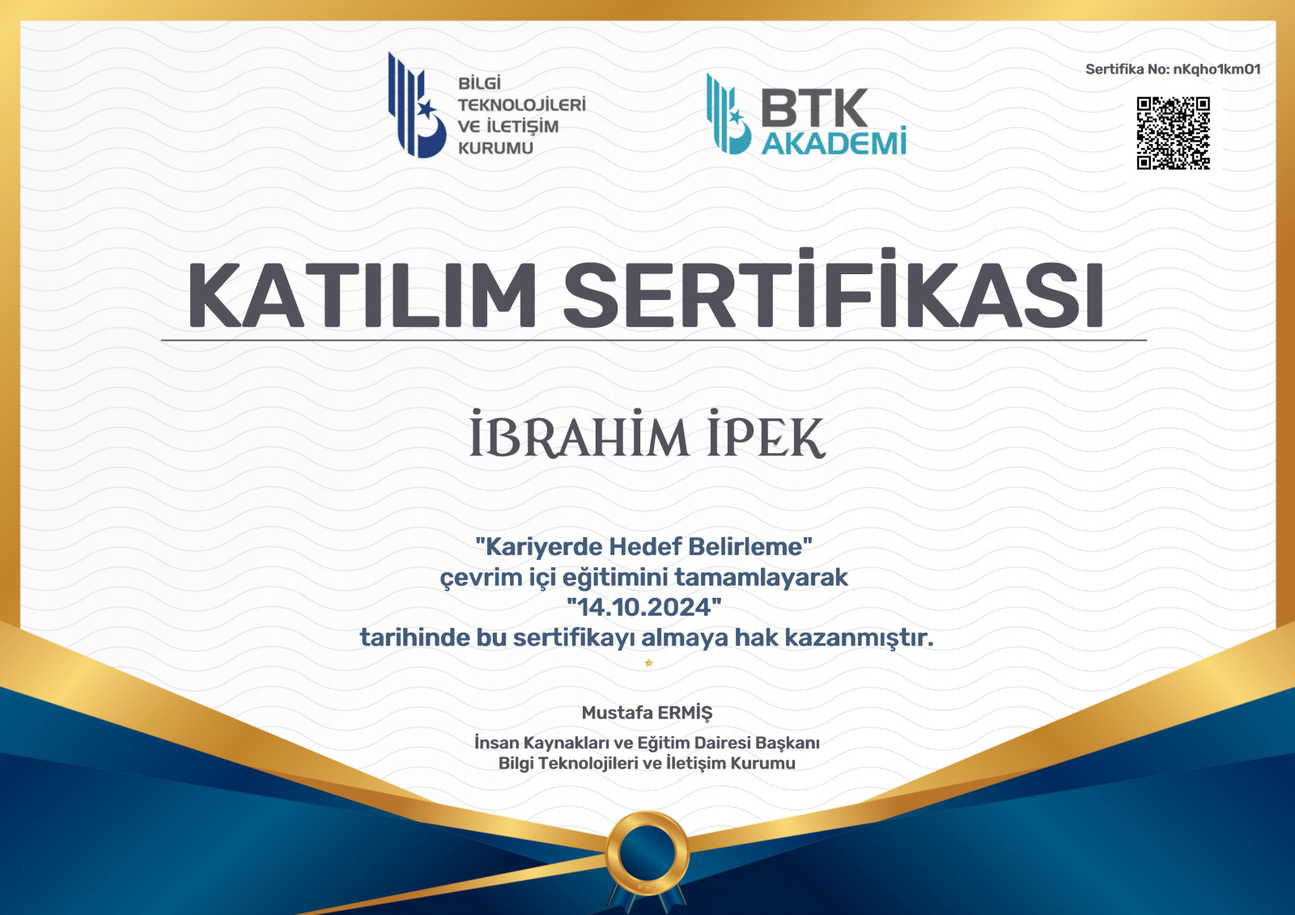
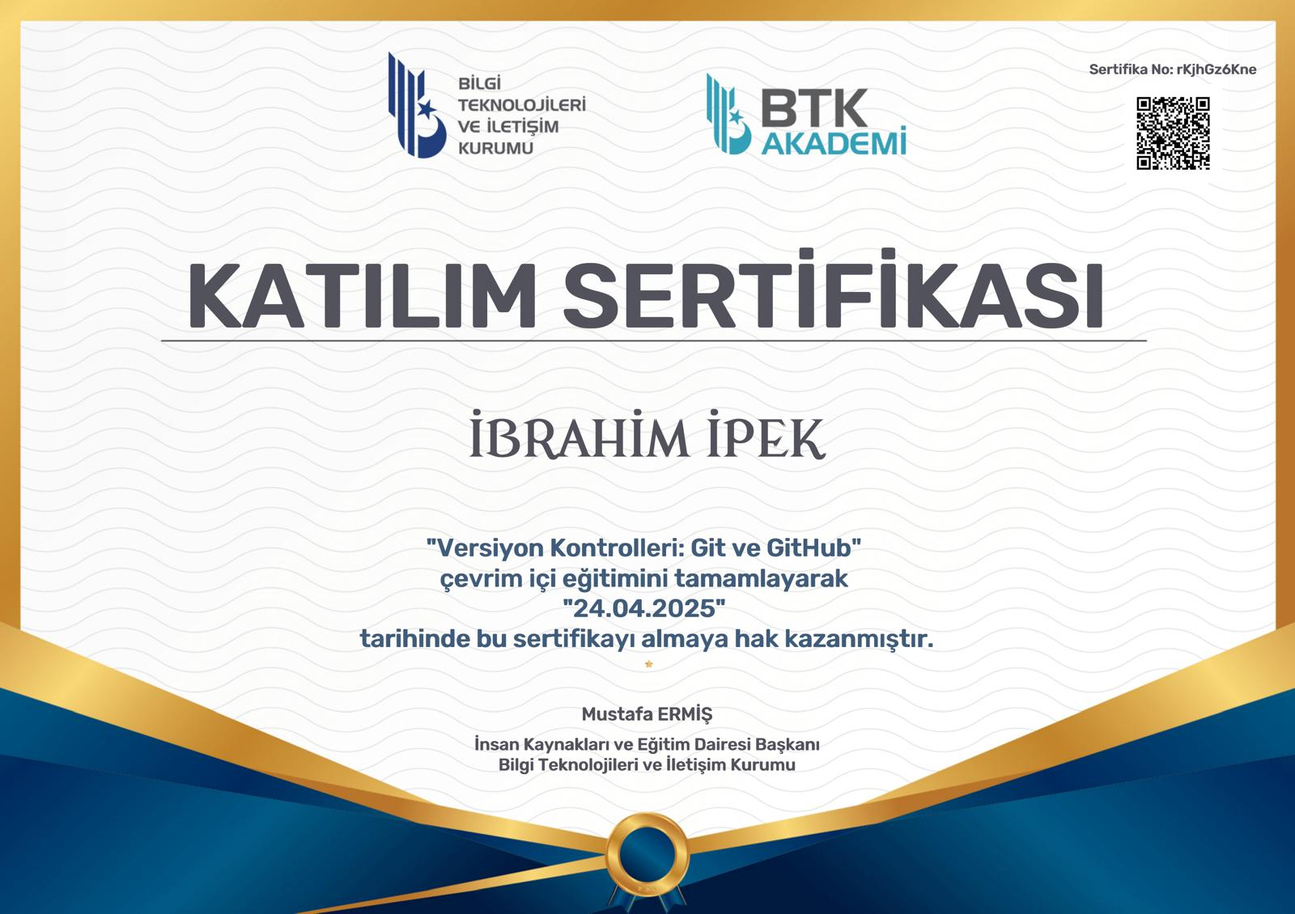
feat: Added description for photos on gallery page
-Changed some resources with fixed-size resources.
-Some theme changes.
-Some CSS changes for paragraph tag.
-Changed some topic and some paragraphs from lorem to my paragraphs.

diff --git a/cv.html b/cv.html
@@ -4,6 +4,9 @@
     <meta charset="UTF-8">
     <meta http-equiv="X-UA-Compatible" content="IE=edge">
     <meta name="viewport" content="width=device-width, initial-scale=1.0">
+    <meta name="descripton" content="Explore the photo gallery and creative works of Ibrahim Ipek. Discover projects, certificates, abilities, and more on his personal portfolio site.">
+    <meta name="keywords" content="Ibrahim Ipek, photo gallery, portfolio, personal site, certificates, abilities, web developer">
+    <meta name="author" content="Ibrahim Ipek">
     <title>Ibrahim Ipek | CV Page</title>
     <link href="https://cdn.jsdelivr.net/npm/bootstrap@5.3.3/dist/css/bootstrap.min.css" rel="stylesheet">
     <link rel="stylesheet" href="./css/main.css">
@@ -17,7 +20,7 @@
                   <div class="row align-items-center">
                     <div class="col-8 d-flex align-items-center gap-2">
                       <i class="bi bi-arrow-return-right"></i>
-                      <h1 class="d-none d-lg-block m-0">Welcome to aaaaaaaaaaa.com</h1>
+                      <h1 class="d-none d-lg-block m-0">Welcome to ibrahimipek.com</h1>
                       <h2 class="d-block d-lg-none m-0">Welcome</h2>
                     </div>
                     <div class="col-4">
@@ -70,21 +73,53 @@
                         <img src="./resources/photo.jpg" class="img-fluid" alt="">
                     </div>
                     <div class="col-md-10 pt-2 align-text-bottom">
-                        <h2>Lorem, ipsum dolor.</h2>
-                        <p>Lorem ipsum dolor sit, amet consectetur adipisicing elit. 
-                            Minima animi iste quod ex, reiciendis debitis. Illo omnis 
-                            dicta natus maiores autem deleniti aut earum itaque, placeat 
-                            officia, reiciendis doloremque? Numquam hic ducimus magnam 
-                            dignissimos laborum! Magni perspiciatis suscipit, harum nobis 
-                            aspernatur hic non accusamus consequuntur accusantium dolores aperiam? 
-                           </p>
+                        <h2>Ibrahim Ipek</h2>
+                        <p>Student of Zonguldak Ecevit University - Computer Engineering - 2.the grade</p>
+                        <p>Mail: ibrahim58ipek@gmail.com</p>
+                        <p>Social Media: <a href="https://www.github.com/58Adige" class="text-white">Github</a> <a href="https://www.linkedin.com/in/ibrahim-ipek-b44bb32b8/" class="text-white">LinkedIn</a>
+                        <a href="https://www.instagram.com/usr1" class="text-white">Instagram</a> <a href="https://www.youtube.com/@ibrahimipek58" class="text-white">Youtube</a></p>
+                        <p>C, C++, C#, Java / HTML5, CSS / Git</p>  
                     </div>
                 </div>
                 <div class="row justify-content center">
-                    <div class="col pt-2">
-                        <p>
-                            Lorem ipsum dolor sit amet consectetur adipisicing elit. Non qui dicta alias consequatur. Iure ipsam reprehenderit amet vero aliquam rerum alias porro laboriosam! Provident ut facilis sunt id omnis porro? Officiis explicabo cupiditate expedita odio. Dolores alias quis incidunt ipsa minus quo deleniti rem ratione necessitatibus autem quas natus, suscipit laudantium expedita error sit at tenetur nulla corrupti ut molestias dignissimos debitis animi provident. Praesentium consectetur eos consequuntur aliquam, velit minima molestias facilis quos minus numquam officia fugiat quam, possimus voluptate ab dignissimos ullam magnam cupiditate repellat saepe, odio corporis? Eveniet quos optio provident perferendis, at, quam aliquid quia assumenda, distinctio quaerat ad recusandae a impedit itaque aliquam necessitatibus. Quia ut unde dolorem vitae possimus sequi, ipsum, accusamus provident corrupti porro eaque iste, error modi consectetur sit! Sapiente repudiandae porro voluptatum exercitationem atque aspernatur officiis commodi ipsa explicabo facilis qui, maiores, necessitatibus expedita adipisci deserunt, iure doloremque quos similique obcaecati! Aliquam recusandae, aspernatur illum pariatur a reiciendis doloremque cumque sequi quisquam velit nobis laborum quod libero earum ad alias eum cum sint commodi numquam at magnam eius voluptatem. Nihil repudiandae aliquid iste distinctio atque quasi adipisci veniam ad vel nulla vero, eos numquam repellat animi possimus quibusdam! Tempore totam saepe magni eveniet libero officiis dolorem fugiat expedita? Itaque beatae suscipit error ipsa, odio placeat a deserunt atque! Obcaecati modi placeat cum officia. Dolor assumenda in debitis, a, sunt sit exercitationem, ut possimus voluptatibus commodi officiis inventore dolorum sed eos eius laudantium ipsum asperiores! Laudantium magnam placeat nihil ducimus perferendis assumenda ipsam architecto, repellendus numquam unde quos doloremque officiis sunt incidunt molestias porro id iste sequi optio eligendi officia aliquam. Quis voluptates animi perferendis deserunt eum saepe odio non perspiciatis aut commodi, quaerat minus aliquam repudiandae delectus veritatis! Consequuntur, doloribus amet! Tempore consequatur repudiandae dicta eveniet in officiis suscipit laudantium, animi nostrum ad minima aliquid deserunt molestiae distinctio sunt ducimus alias eius accusamus error labore cumque consectetur iusto. Facere eveniet necessitatibus minus ipsa id pariatur corporis sequi ut vero voluptatem quae, doloribus ad aliquid, dicta unde adipisci nisi voluptatibus exercitationem, ipsam vitae cumque? Eligendi labore earum laborum soluta dolor temporibus doloremque ex, non nemo ipsa assumenda asperiores iure culpa omnis quod nostrum fuga, autem nulla? Blanditiis possimus, animi recusandae exercitationem quia provident nesciunt beatae inventore tenetur adipisci laborum fugiat? Maiores placeat ex nostrum? Repudiandae ut architecto qui reiciendis deserunt veritatis quaerat magnam labore a quas cumque beatae, hic iste neque aliquid atque autem cupiditate repellat dolor quidem in asperiores debitis. Cum recusandae, porro molestiae quos sequi exercitationem nulla cupiditate minima, maxime nam voluptatibus rerum excepturi aut corrupti laboriosam fuga voluptatem molestias in? Molestiae incidunt necessitatibus natus unde distinctio beatae quas impedit obcaecati accusantium modi laboriosam voluptatum nam voluptate reiciendis, totam ipsam excepturi reprehenderit at fuga iusto, a esse quisquam molestias earum! Aperiam, dolorum mollitia molestias neque porro iusto harum incidunt similique sit iste ipsam minima, illum, libero error non recusandae doloremque facilis. Neque perspiciatis, ab sequi aspernatur laborum repellat ducimus suscipit delectus, voluptatibus labore ipsam nostrum similique molestiae vero accusantium. Doloremque!
-                        </p>
+                    <div class="col pt-2 text-center">
+                        <p>Work Experience
+                          <br>Company Name (start-date to end-date)
+                          <br>Your job title
+                          <br>Any experience, including roles and responsibilities and results achived in bullet point format.
+                          <br>Company Name (start-date to end-date)
+                          <br>Your job title
+                          <br>Any experience relevent to software development
+                          <br>Skills
+                          <br>Your previous experience is really important. You will need to make it really clear to someone who has not worked in your field before exactly how your experience will be useful in software development.
+                          <br>Consider skills relevent to software development. Then consider projects you've worked on before Makers that you feel proud of and/or you think are relevent to technology. Good examples clearly explain the impact you've had.
+                          <br>Here's an example
+                          <br>Communication
+                          <br>I honed my communication skills while completing my thesis at university, which involved writing and defending a dissertation to a board of professors and Ph.D. candidates. I further developed these skills when I was working in a digital marketing agency where I presented quarterly business reviews to C-level stakeholders. In doing so, I synthesised complex technical information into a digestible but comprehensive story for the different levels of knowledge in the room. My communication skills have also often come in handy while training to be a developer. For example, I recently ran a session for my mentees, who have only been coding for a few weeks, on how to use mocks to improve unit test isolation. I received feedback that the session was well run and helped them understand this potentially confusing topic.
+                          <br>Another skill
+                          <br>I achieved A during my work at B (job, or otherwise)
+                          <br>I contributed to the growth of X while doing Y (job, or otherwise)
+                          <br>I built this, made this, broke this, fixed this, etc.
+                          <br>A link to some on-line evidence (blogs, videos, articles, etc.)
+                          <br>Another skill
+                          <br>Education
+                          <br>Makers Academy (start_date to end_date)
+                          <br>Use short descriptions of what you did and a skill you used. (Similar to format from the 'Work Experience' section above)
+                          <br>e.g Frequently used paring in order to problemsolve effeciently, requiring teamwork and communication.
+                          <br>you might also mention aspects some other skills/knowledge listed below:
+                          <br>OOP, TDD, MVC, DDD
+                          <br>Agile/XP
+                          <br>Ruby, Rails, JavaScript
+                          <br>RSpec, Jasmine
+                          <br>Your University / College (start_date to end_date)
+                          <br>Subject, any specialisms
+                          <br>Grade
+                          <br>Other cool stuff
+                          <br>Any other qualifications
+                          <br>That in some arguable way make you a better software developer or well-rounded person
+                          
+                          <br>Hobbies
+                          <br>Any cool stuff that makes you a super part of a software development team</p>
                     </div>
                 </div>
             </div>
@@ -96,19 +131,19 @@
                 <div class="row text-center">
                     <div class="col-md-4">
                         <div class="col-md-6">
-                            <span>Ability:</span>
+                            <span>C Language:</span>
                             <div class="progress" role="progressbar">
                                 <div class="progress-bar bg-success progress-bar-animated progress-bar-striped" style="width: 95%"></div>
                            </div>
                         </div>
                         <div class="col-md-6">
-                            <span>Ability:</span>
+                            <span>C++ Language:</span>
                             <div class="progress" role="progressbar">
                                 <div class="progress-bar bg-danger progress-bar-animated progress-bar-striped" style="width: 25%"></div>
                            </div>
                         </div>
                         <div class="col-md-6">
-                            <span>Ability:</span>
+                            <span>C# Language:</span>
                             <div class="progress" role="progressbar">
                                 <div class="progress-bar bg-danger progress-bar-animated progress-bar-striped" style="width: 25%"></div>
                            </div>
@@ -169,52 +204,52 @@
                     <div id="carouselExampleAutoplaying" class="carousel slide" data-bs-ride="carousel">
                         <div class="carousel-inner border">
                           <div class="carousel-item active">
-                            <img src="./resources/cr16.jpg" class="d-block w-100" alt="...">
+                            <img src="./resources/cr16.jpg" class="d-block w-100" alt="BTK - Bootstrop 5 Katilim Sertifikasi">
                           </div>
                           <div class="carousel-item">
-                            <img src="./resources/cr15.jpg" class="d-block w-100" alt="...">
+                            <img src="./resources/cr15.jpg" class="d-block w-100" alt="BTK - HTML5 ile Web Gelistirme Katilim Sertifikasi">
                           </div>
                           <div class="carousel-item">
-                            <img src="./resources/cr14.jpg" class="d-block w-100" alt="...">
+                            <img src="./resources/cr14.jpg" class="d-block w-100" alt="BTK - Versiyon Kontrolleri: Git ve Github Katilim Sertifikasi">
                           </div>
                           <div class="carousel-item">
-                            <img src="./resources/cr13.jpg" class="d-block w-100" alt="...">
+                            <img src="./resources/cr13.jpg" class="d-block w-100" alt="BTK - C++ Programalaya Giris Katilim Sertifikasi">
                           </div>
                           <div class="carousel-item">
-                            <img src="./resources/cr12.jpg" class="d-block w-100" alt="...">
+                            <img src="./resources/cr12.jpg" class="d-block w-100" alt="BTK - C# Programlama Katilim Sertifikasi">
                           </div>
                           <div class="carousel-item">
-                            <img src="./resources/cr11.jpg" class="d-block w-100" alt="...">
+                            <img src="./resources/cr11.jpg" class="d-block w-100" alt="Gelecegi Yazanlar - Word Egitimi Katilim Sertifikasi">
                           </div>
                           <div class="carousel-item">
-                            <img src="./resources/cr10.jpg" class="d-block w-100" alt="...">
+                            <img src="./resources/cr10.jpg" class="d-block w-100" alt="BTK - A1 Seviye Ingilizce Katilim Sertifikasi">
                           </div>
                           <div class="carousel-item">
-                            <img src="./resources/cr9.jpg" class="d-block w-100" alt="...">
+                            <img src="./resources/cr9.jpg" class="d-block w-100" alt="BTK - Topluluk Onunde Konusma ve Etkili Sunum Teknikleri Katilim Sertifikasi">
                           </div>
                           <div class="carousel-item">
-                            <img src="./resources/cr8.jpg" class="d-block w-100" alt="...">
+                            <img src="./resources/cr8.jpg" class="d-block w-100" alt="BTK - Kariyerde Hedef Bulma Katilim Sertifikasi">
                           </div>
                           <div class="carousel-item">
-                            <img src="./resources/cr7.jpg" class="d-block w-100" alt="...">
+                            <img src="./resources/cr7.jpg" class="d-block w-100" alt="BTK - Ikna Becerileri Katilim Sertifikasi">
                           </div>
                           <div class="carousel-item">
-                            <img src="./resources/cr6.jpg" class="d-block w-100" alt="...">
+                            <img src="./resources/cr6.jpg" class="d-block w-100" alt="Gelecegi Yazanlar - Temel Bilgisayar Katilim Sertifikasi">
                           </div>
                           <div class="carousel-item">
-                            <img src="./resources/cr5.jpg" class="d-block w-100" alt="...">
+                            <img src="./resources/cr5.jpg" class="d-block w-100" alt="BTK - E-Ticarete Giris Katilim Sertifikasi">
                           </div>
                           <div class="carousel-item">
-                            <img src="./resources/cr4.jpg" class="d-block w-100" alt="...">
+                            <img src="./resources/cr4.jpg" class="d-block w-100" alt="BTK - Bilgi Teknolojilerine Giris Katilim Sertifikasi">
                           </div>
                           <div class="carousel-item">
-                            <img src="./resources/cr3.jpg" class="d-block w-100" alt="...">
+                            <img src="./resources/cr3.jpg" class="d-block w-100" alt="BTK - C Programlama Dili Katilim Sertifikasi">
                           </div>
                           <div class="carousel-item">
-                            <img src="./resources/cr2.jpg" class="d-block w-100" alt="...">
+                            <img src="./resources/cr2.jpg" class="d-block w-100" alt="Etkin Kampus - Canva Kariyer Zirvesi Katilim Sertifikasi">
                           </div>
                           <div class="carousel-item">
-                            <img src="./resources/cr1.jpg" class="d-block w-100" alt="...">
+                            <img src="./resources/cr1.jpg" class="d-block w-100" alt="Huawei - Arge Bulusmasi Katilim Sertifikasi">
                           </div>
                         </div>
                         <button class="carousel-control-prev" type="button" data-bs-target="#carouselExampleAutoplaying" data-bs-slide="prev">

diff --git a/home.html b/home.html
@@ -4,6 +4,9 @@
     <meta charset="UTF-8">
     <meta http-equiv="X-UA-Compatible" content="IE=edge">
     <meta name="viewport" content="width=device-width, initial-scale=1.0">
+    <meta name="descripton" content="Explore the photo gallery and creative works of Ibrahim Ipek. Discover projects, certificates, abilities, and more on his personal portfolio site.">
+    <meta name="keywords" content="Ibrahim Ipek, photo gallery, portfolio, personal site, certificates, abilities, web developer">
+    <meta name="author" content="Ibrahim Ipek">
     <title>Ibrahim Ipek | Home Page</title>
     <link href="https://cdn.jsdelivr.net/npm/bootstrap@5.3.3/dist/css/bootstrap.min.css" rel="stylesheet">
     <link rel="stylesheet" href="./css/main.css">
@@ -17,7 +20,7 @@
                   <div class="row align-items-center">
                     <div class="col-8 d-flex align-items-center gap-2">
                       <i class="bi bi-arrow-return-right"></i>
-                      <h1 class="d-none d-lg-block m-0">Welcome to aaaaaaaaaaa.com</h1>
+                      <h1 class="d-none d-lg-block m-0">Welcome to ibrahimipek.com</h1>
                       <h2 class="d-block d-lg-none m-0">Welcome</h2>
                     </div>
                     <div class="col-4">
@@ -66,42 +69,36 @@
         <div class="container-fluid bg-secondary">
             <div class="container bg-primary border p-2 ">
                 <div class="row">
-                    <div class="col-md-6 pt-2">
-                    <img src="./resources/photo.jpg" class="img-fluid" alt="">
+                    <div class="col-md-5 pt-2">
+                    <div class="row pt-5 m-2">
+                      <img src="./resources/photo.jpg" class="img-fluid border" alt="">
+                      <h2>AAA</h2>
+                    </div> 
+                    <div class="row pt-5 m-2">
+                      <img src="./resources/photo.jpg" class="img-fluid border" alt="">
+                      <h2>AAA</h2>
+                    </div> 
+                    <div class="row pt-5 m-2">
+                      <img src="./resources/photo.jpg" class="img-fluid border" alt="">
+                      <h2>AAA</h2>
+                    </div>  
                     </div>
-                    <div class="col-md-6 pt-2 align-text-bottom">
-                        <h2>Lorem, ipsum dolor.</h2>
-                        <p>Lorem ipsum dolor sit, amet consectetur adipisicing elit. 
-                        Minima animi iste quod ex, reiciendis debitis. Illo omnis 
-                        dicta natus maiores autem deleniti aut earum itaque, placeat 
-                        officia, reiciendis doloremque? Numquam hic ducimus magnam 
-                        dignissimos laborum! Magni perspiciatis suscipit, harum nobis 
-                        aspernatur hic non accusamus consequuntur accusantium dolores aperiam? 
-                        Id explicabo enim iste omnis saepe, recusandae praesentium provident optio 
-                        mollitia quae rem perspiciatis similique impedit adipisci consequatur qui 
-                        ea nesciunt, dolorem modi officia illo consectetur quam totam consequuntur. 
-                        Tenetur accusamus doloremque dolorem. Eligendi aliquid, soluta quaerat deleniti 
-                        ipsa at quasi, eaque ullam enim ex asperiores? Ut a, tempora blanditiis 
-                        repellendus eligendi quia magnam placeat cumque asperiores quas nam. Tempora, 
-                        explicabo reprehenderit? Modi optio dolore, totam labore sed explicabo, consequatur, 
-                        vel non tenetur voluptates fugit! Aliquid provident debitis est rem cumque sunt dicta 
-                        deserunt officia? Autem qui 
-                        laborum distinctio ut repellat debitis labore veniam!</p>
-                        <p>Lorem ipsum dolor sit amet consectetur adipisicing 
-                            elit. Aliquam amet rem consectetur nostrum vitae c
-                            umque magni beatae pariatur eos quos omnis cum sequi maxime, 
-                            eveniet quia iste cupiditate molestias hic possimus officiis, 
-                            voluptatem, voluptas quod? Nulla, accusamus voluptatibus. Ullam 
-                            atque et iste, minus ex autem hic velit fuga eveniet facere. Quos, 
-                            sunt! Maiores qui amet fugit nostrum dolores ipsum assumenda nulla 
-                            pariatur esse, dolor, quas mollitia accusamus modi reiciendis illo 
-                            sequi? Facilis itaque quaerat est hic, distinctio pariatur 
-                            perspiciatis rem vel ea libero optio beatae quis accusamus dicta 
-                            omnis saepe enim eligendi, accusantium cumque maiores nulla quisquam? 
-                            Dolores repudiandae necessitatibus cupiditate esse placeat sed error 
-                            aperiam accusamus facere, molestiae, exercitationem tempore, eius sapiente 
-                            at laborum ut quos! Dolorem odit repellat tenetur maiores ut ex facilis 
-                            officiis debitis ullam doloribus autem, nam,</p>
+                    <div class="col-md-7 pt-2 align-text-bottom">
+                        <h1>My Coding Adventure</h1>
+                        <p>Hello, my name is İbrahim İpek. I am a 2nd-year student in the Computer Engineering Department at Zonguldak Bülent Ecevit University.</p>
+                        <p>I met the concept of computers when I was 8 years old. Before that, in my free time, I used to solve puzzles, draw pictures, and create games on paper to play with my friends at school and in the neighborhood. As technology advanced every day, the computer became a necessity. At that time, there was no one in my family who used a computer actively, so I started to explore this digital world by myself. Even back then, I was able to learn how to use basic computer programs on my own.</p>
+                        <p>When I started middle school, I began learning how to make simple games using a block-based programming tool called Scratch. The idea of designing the games I always played on my own fascinated me. Later, I also learned to create 3D games using Kodu Game Lab, another block-based tool. This journey helped me improve my algorithmic thinking and problem-solving skills.</p>
+                        <p>When I entered high school, I joined the robotics and coding club. There, we started building robots and different automation systems using Arduino, which is very similar to the C programming language. As a team, we built a line-following robot and joined the KelebekRO competition. During the pandemic, my classmates and I tried to create a 2D sandbox game, which was our dream. We designed the textures for the characters and objects and started building the game using Unity. However, we had to stop this project because of a lack of technical knowledge and the need to prepare for the university entrance exam. Even today, we still talk about that project when we meet.</p>  
+                        <p>I chose computer engineering for my university education because it was my dream. In my first year, I took the Algorithm and Programming course and improved my programming skills in the C language. In my second year, I took Data Structures and Object-Oriented Programming courses, where I learned C++ and C#. Outside of classes, I took online courses in the library to improve myself. I also learned HTML5, CSS, and the Bootstrap framework on my own, which helped me take my first steps in web development.</p>
+                        <p>In the near future, I aim to learn technologies like ASP.NET and Entity Framework to build more dynamic web pages. I also plan to learn a database language like SQL to store data more efficiently. Later, I want to improve myself in mobile programming as well. I plan to learn a cross-platform mobile programming language (like Flutter). With the fast development of artificial intelligence, I, like many others, have understood the importance and value of data. For this reason, I want to focus on areas such as data science, data analysis, data management, and machine learning. I enjoy learning and discovering new things. I try to grow my career like a seed, and I hope one day it will bear fruit by doing work that benefits people and helps improve my country.</p>
+                        <hr>  
+                        <h1>Kodlama </h1>
+                        <p>Merhaba ben İbrahim İpek. Zonguldak Bülent Ecevit Üniversitesi'nde Bilgisayar Mühendisliği Bölümünde 2. Sınıf Öğrencisiyim.</p>
+                        <p>Bilgisayar kavramı hayatıma 8 yaşımda girdi. Bu kavram hayatımda yokken boş zamanlarımda bulmaca çözüyor, resim yapıyor ve kağıt üzerinde kendi tasarladığım oyunları mahallede ve okulda arkadaşlarımla oynuyordum. Teknolojinin her gün ilerlemesiyle bilgisayar artık bir ihtiyaç olmuştu. O zamanlar evimizde etkin şekilde bilgisayar kullanan bir birey yoktu. Bu yüzden bu sanal dünyayı kendi kendime kesfetmeye basladım. Daha o zamanlar kendime temel bilgisayar uygulamalarını kullanacak şekilde geliştirmeyi başardım.</p>
+                        <p>Ortaokula başladığım zaman, derslerde blok tabanlı kodlama programı olan Scratch ile basit oyunlar yapmayı öğrenmeye başladım. Sürekli oynadığım oyunları kendi başıma tasarlayabilme fikri beni büyüledi. Daha sonraları Kodu Game Lab ile yine blok tabanlı ama bu sefer 3 boyutlu oyunlar yapmayı öğrendim. Bu blok tabanlı kodlama serüveni beni algoritma kurma ve problem çözme açısından oldukça geliştirdi.</p>
+                        <p>Liseye geçtiğimde ise okulumuzun robotik kodlama kulübüne katıldım. Burada hemen hemen C diliyle aynı olan Arduino ile kendimize robotlar ve çeşitli otomasyonlar yapmaya başladık. Ekip olarak yaptığımız çizgi izleyen robot ile KelebekRO yarışmasına katıldık. Pandemi döneminde okulda sınıf arkadaşlarımla hayalimiz olan 2 boyutlu sandbox oyunu tasarlamaya çalıştık. Karakterlerin ve öğelerin doku olarak tasarımını yaptık, daha sonra Unity ile oyunu yapmaya başladık ama yeterli bilgi birikimine sahip olmamamız ve üniversite sınavına hazırlanma zorunluluğumuz yüzünden bu projeyi yarım bırakmak zorunda kaldık. Bugün bile bir araya geldiğimizde bu proje hakkında konuşuyoruz.</p> 
+                        <p>Üniversite tercihimi hep hayalim olan bilgisayar mühendisliği bölümleri ile yaptım ve Zonguldak Bülent Ecevit Üniversitesi Bilgisayar Mühendisliği Bölümü'ne yerleştim. Eğitimimin ilk senesinde Algoritma ve Programlama dersini aldım ve bu derste C diliyle programlama becerilerimi geliştirdim. İkinci sene veri yapıları ve nesneye yönelik programlama derslerini aldım. Bu derslerde C++ ve C# dillerini öğrendim. Dersler dışında boş zamanlarımda kütüphanede çevrim içi kurslara katılarak bilgilerimi pekiştirdim. Okuldan bağımsız olarak HTML5, CSS ve ayrıca Bootstrap kütüphanesini öğrendim ve web geliştirme konusunda ilk adımımı atmış bulunmaktayım.</p>
+                        <p>Yakın zamanda ASP.NET, Entity Framework gibi teknolojileri öğrenip daha dinamik sayfalar geliştirmek, SQL gibi bir veritabanı dili öğrenerek verileri daha verimli şekilde depolayabileceğim sayfalar geliştirmek ilk hedeflerim arasında. Daha sonra kendimi mobil programlama üzerinde de geliştirmek istiyorum. Platform bağımsız (Flutter olabilir) bir mobil programlama dili öğrenmek istiyorum. Son zamanlarda yapay zekanın hızla gelişmesiyle birlikte, herkes gibi verinin önemini ve değerini de daha iyi anlamış bulunmaktayım. Bu nedenle başta veri bilimi, veri analizi ve veri yönetimi, makine öğrenmesi olmak üzere veri üzerine kendimi geliştirmeyi planlıyorum. Yeni şeyler öğrenmeyi, yeni şeyler keşfetmeyi seviyorum. Elimden geldiğince kariyerimi bir tohum gibi yeşertmeye çalışıyorum. Umarım kariyerim insanlığa fayda sağlayacak işler yaparak ve ülkemi daha iyi yerlere getirerek meyvesini gösterir.</p>
                     </div>
                 </div>
             </div>
@@ -119,7 +116,7 @@
     <section id="contact">
         <div class="container-fluid bg-secondary text-white py-4">
             <div class="container bg-secondary">
-            <form class="py-3 text-start">
+            <form class="py-3 textSerüvenim-start">
                 <div class="row">   
                     <div class="col-md-6 pt-2">
                         <textarea name="message" id="message" cols="30" rows="10" placeholder="Enter Your Message" class="form-control"></textarea>
@@ -174,5 +171,4 @@
       </footer>
     <script src="https://cdn.jsdelivr.net/npm/bootstrap@5.3.3/dist/js/bootstrap.bundle.min.js"></script>
 </body>
-
 </html>

diff --git a/photogallery.html b/photogallery.html
@@ -4,6 +4,9 @@
     <meta charset="UTF-8">
     <meta http-equiv="X-UA-Compatible" content="IE=edge">
     <meta name="viewport" content="width=device-width, initial-scale=1.0">
+    <meta name="descripton" content="Explore the photo gallery and creative works of Ibrahim Ipek. Discover projects, certificates, abilities, and more on his personal portfolio site.">
+    <meta name="keywords" content="Ibrahim Ipek, photo gallery, portfolio, personal site, certificates, abilities, web developer">
+    <meta name="author" content="Ibrahim Ipek">
     <title>Ibrahim Ipek | Gallery Page</title>
     <link href="https://cdn.jsdelivr.net/npm/bootstrap@5.3.3/dist/css/bootstrap.min.css" rel="stylesheet">
     <link rel="stylesheet" href="./css/main.css">
@@ -17,7 +20,7 @@
               <div class="row align-items-center">
                 <div class="col-8 d-flex align-items-center gap-2">
                   <i class="bi bi-arrow-return-right"></i>
-                  <h1 class="d-none d-lg-block m-0">Welcome to aaaaaaaaaaa.com</h1>
+                  <h1 class="d-none d-lg-block m-0">Welcome to ibrahimipek.com</h1>
                   <h2 class="d-block d-lg-none m-0">Welcome</h2>
                 </div>
                 <div class="col-4">
@@ -69,28 +72,27 @@
                     <div class="col text-start">
                        <img id="mainImage" src="./resources/cr16.jpg" alt="Loading..." class="img-fluid mb-3 border">
                        <div class="container bg-primary py-2">
-                        <p>Lorem ipsu inventore accusamus recusandae est itaque repudiandae! Earum, tempore autem id esse temporibus minus laboriosam porro consectetur, officiis dolor sit quasi nobis! Labore magni quis nesciunt, voluptas assumenda fugit ipsa nulla neque repellendus doloremque aliquid iure. Possimus suscipit voluptatibus fuga veniam ullam iusto eius dignissimos culpa saepe, dolores maxime neque nulla exercitationem natus repellat cupiditate explicabo similique.</p>
+                        <p id="imageDescription">BTK - Bootstrop 5 Katilim Sertifikasi</p>
                         </div> 
                     </div>
                     <div class="container">
                      <div class="thumbnail-slider d-flex overflow-auto gap-2 p-2 border bg-secondary">
-                      <img src="./resources/cr1.jpg" class="img-thumbnail thumb" alt="...">
-                      <img src="./resources/cr2.jpg" class="img-thumbnail thumb" alt="...">
-                      <img src="./resources/cr3.jpg" class="img-thumbnail thumb" alt="...">
-                      <img src="./resources/cr4.jpg" class="img-thumbnail thumb" alt="...">
-                      <img src="./resources/cr5.jpg" class="img-thumbnail thumb" alt="...">
-                      <img src="./resources/cr6.jpg" class="img-thumbnail thumb" alt="...">
-                      <img src="./resources/cr7.jpg" class="img-thumbnail thumb" alt="...">
-                      <img src="./resources/cr8.jpg" class="img-thumbnail thumb" alt="...">
-                      <img src="./resources/cr9.jpg" class="img-thumbnail thumb" alt="...">
-                      <img src="./resources/cr10.jpg" class="img-thumbnail thumb" alt="...">
-                      <img src="./resources/cr11.jpg" class="img-thumbnail thumb" alt="...">
-                      <img src="./resources/cr12.jpg" class="img-thumbnail thumb" alt="...">
-                      <img src="./resources/cr13.jpg" class="img-thumbnail thumb" alt="...">
-                      <img src="./resources/cr14.jpg" class="img-thumbnail thumb" alt="...">
-                      <img src="./resources/cr15.jpg" class="img-thumbnail thumb" alt="...">
-                      <img src="./resources/cr16.jpg" class="img-thumbnail thumb" alt="...">
-                      <!-- İstediğin kadar devam ettirebilirsin -->
+                      <img src="./resources/cr1.jpg" class="img-thumbnail thumb" alt="Huawei - Arge Bulusmasi Katilim Sertifikasi" data-description="Huawei - Arge Bulusmasi Katilim Sertifikasi">
+                      <img src="./resources/cr2.jpg" class="img-thumbnail thumb" alt="Etkin Kampus - Canva Kariyer Zirvesi Katilim Sertifikasi" data-description="Etkin Kampus - Canva Kariyer Zirvesi Katilim Sertifikasi">
+                      <img src="./resources/cr3.jpg" class="img-thumbnail thumb" alt="BTK - C Programlama Dili Katilim Sertifikasi" data-description="BTK - C Programlama Dili Katilim Sertifikasi">
+                      <img src="./resources/cr4.jpg" class="img-thumbnail thumb" alt="BTK - Bilgi Teknolojilerine Giris Katilim Sertifikasi" data-description="BTK - Bilgi Teknolojilerine Giris Katilim Sertifikasi">
+                      <img src="./resources/cr5.jpg" class="img-thumbnail thumb" alt="BTK - E-Ticarete Giris Katilim Sertifikasi" data-description="BTK - E-Ticarete Giris Katilim Sertifikasi">
+                      <img src="./resources/cr6.jpg" class="img-thumbnail thumb" alt="Gelecegi Yazanlar - Temel Bilgisayar Katilim Sertifikasi" data-description="Gelecegi Yazanlar - Temel Bilgisayar Katilim Sertifikasi">
+                      <img src="./resources/cr7.jpg" class="img-thumbnail thumb" alt="BTK - Ikna Becerileri Katilim Sertifikasi" data-description="BTK - Ikna Becerileri Katilim Sertifikasi">
+                      <img src="./resources/cr8.jpg" class="img-thumbnail thumb" alt="BTK - Kariyerde Hedef Bulma Katilim Sertifikasi" data-description="BTK - Kariyerde Hedef Bulma Katilim Sertifikasi">
+                      <img src="./resources/cr9.jpg" class="img-thumbnail thumb" alt="BTK - Topluluk Onunde Konusma ve Etkili Sunum Teknikleri Katilim Sertifikasi" data-description="BTK - Topluluk Onunde Konusma ve Etkili Sunum Teknikleri Katilim Sertifikasi">
+                      <img src="./resources/cr10.jpg" class="img-thumbnail thumb" alt="BTK - A1 Seviye Ingilizce Katilim Sertifikasi" data-description="BTK - A1 Seviye Ingilizce Katilim Sertifikasi">
+                      <img src="./resources/cr11.jpg" class="img-thumbnail thumb" alt="Gelecegi Yazanlar - Word Egitimi Katilim Sertifikasi" data-description="Gelecegi Yazanlar - Word Egitimi Katilim Sertifikasi">
+                      <img src="./resources/cr12.jpg" class="img-thumbnail thumb" alt="BTK - C# Programlama Katilim Sertifikasi" data-description="BTK - C# Programlama Katilim Sertifikasi">
+                      <img src="./resources/cr13.jpg" class="img-thumbnail thumb" alt="BTK - C++ Programalaya Giris Katilim Sertifikasi" data-description="BTK - C++ Programalaya Giris Katilim Sertifikasi">
+                      <img src="./resources/cr14.jpg" class="img-thumbnail thumb" alt="BTK - Versiyon Kontrolleri: Git ve Github Katilim Sertifikasi" data-description="BTK - Versiyon Kontrolleri: Git ve Github Katilim Sertifikasi">
+                      <img src="./resources/cr15.jpg" class="img-thumbnail thumb" alt="BTK - HTML5 ile Web Gelistirme Katilim Sertifikasi" data-description="BTK - HTML5 ile Web Gelistirme Katilim Sertifikasi">
+                      <img src="./resources/cr16.jpg" class="img-thumbnail thumb" alt="BTK - Bootstrop 5 Katilim Sertifikasi" data-description="BTK - Bootstrop 5 Katilim Sertifikasi">
                     </div>
                   </div>
                 </div>
@@ -156,11 +158,13 @@
 <script src="https://cdn.jsdelivr.net/npm/bootstrap@5.3.3/dist/js/bootstrap.bundle.min.js"></script>
   <script>
     const thumbnails = document.querySelectorAll('.thumb');
-    const mainImage = document.getElementById('mainImage'); 
+    const mainImage = document.getElementById('mainImage');
+    const imageDescription = document.getElementById('imageDescription');
     thumbnails.forEach(thumb => {
       thumb.addEventListener('click', function () {
         if (mainImage.src !== this.src) {
-    mainImage.src = this.src;
+          mainImage.src = this.src;
+          imageDescription.textContent = this.dataset.description || "Description not found.";
           }
       });
     });

diff --git a/css/main.css b/css/main.css
@@ -270,6 +270,7 @@ h6, .h6 {
 p {
   margin-top: 0;
   margin-bottom: 1rem;
+  text-indent: 15px;
 }
 
 abbr[title] {
